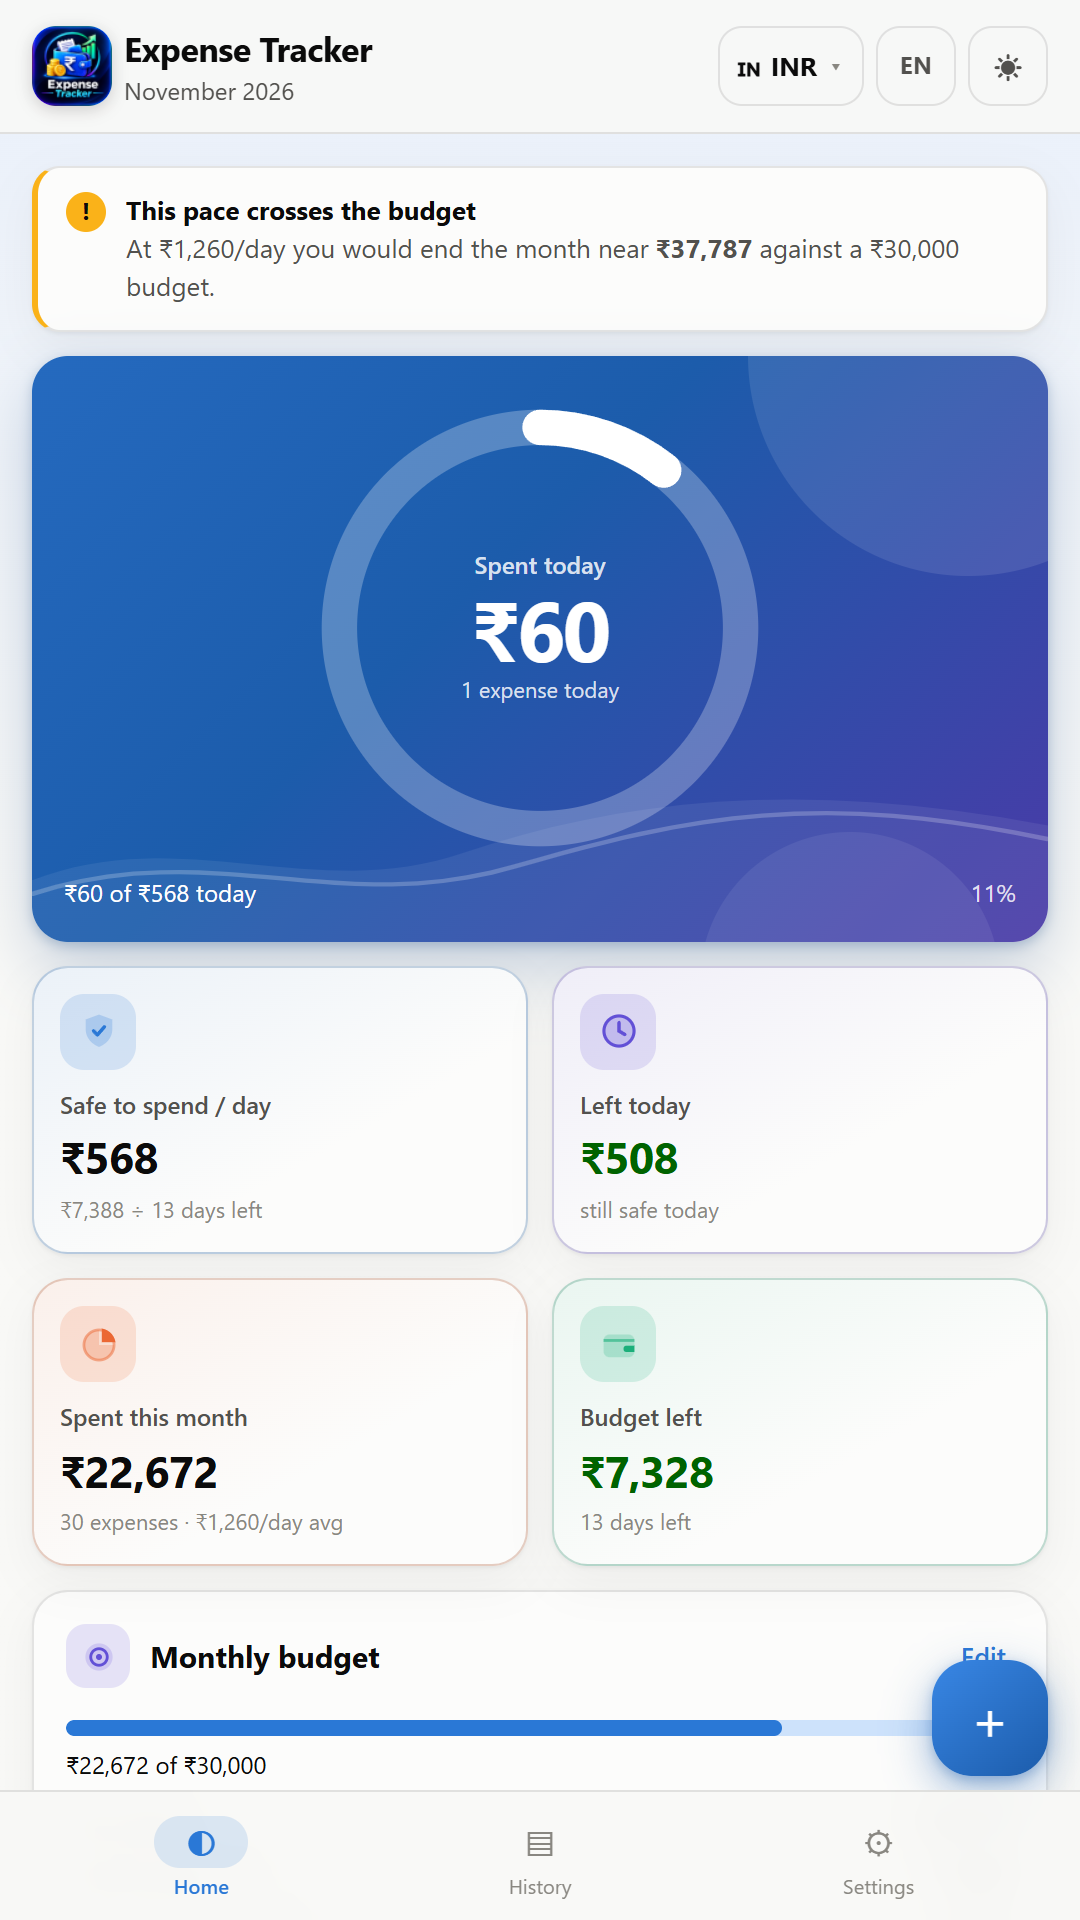
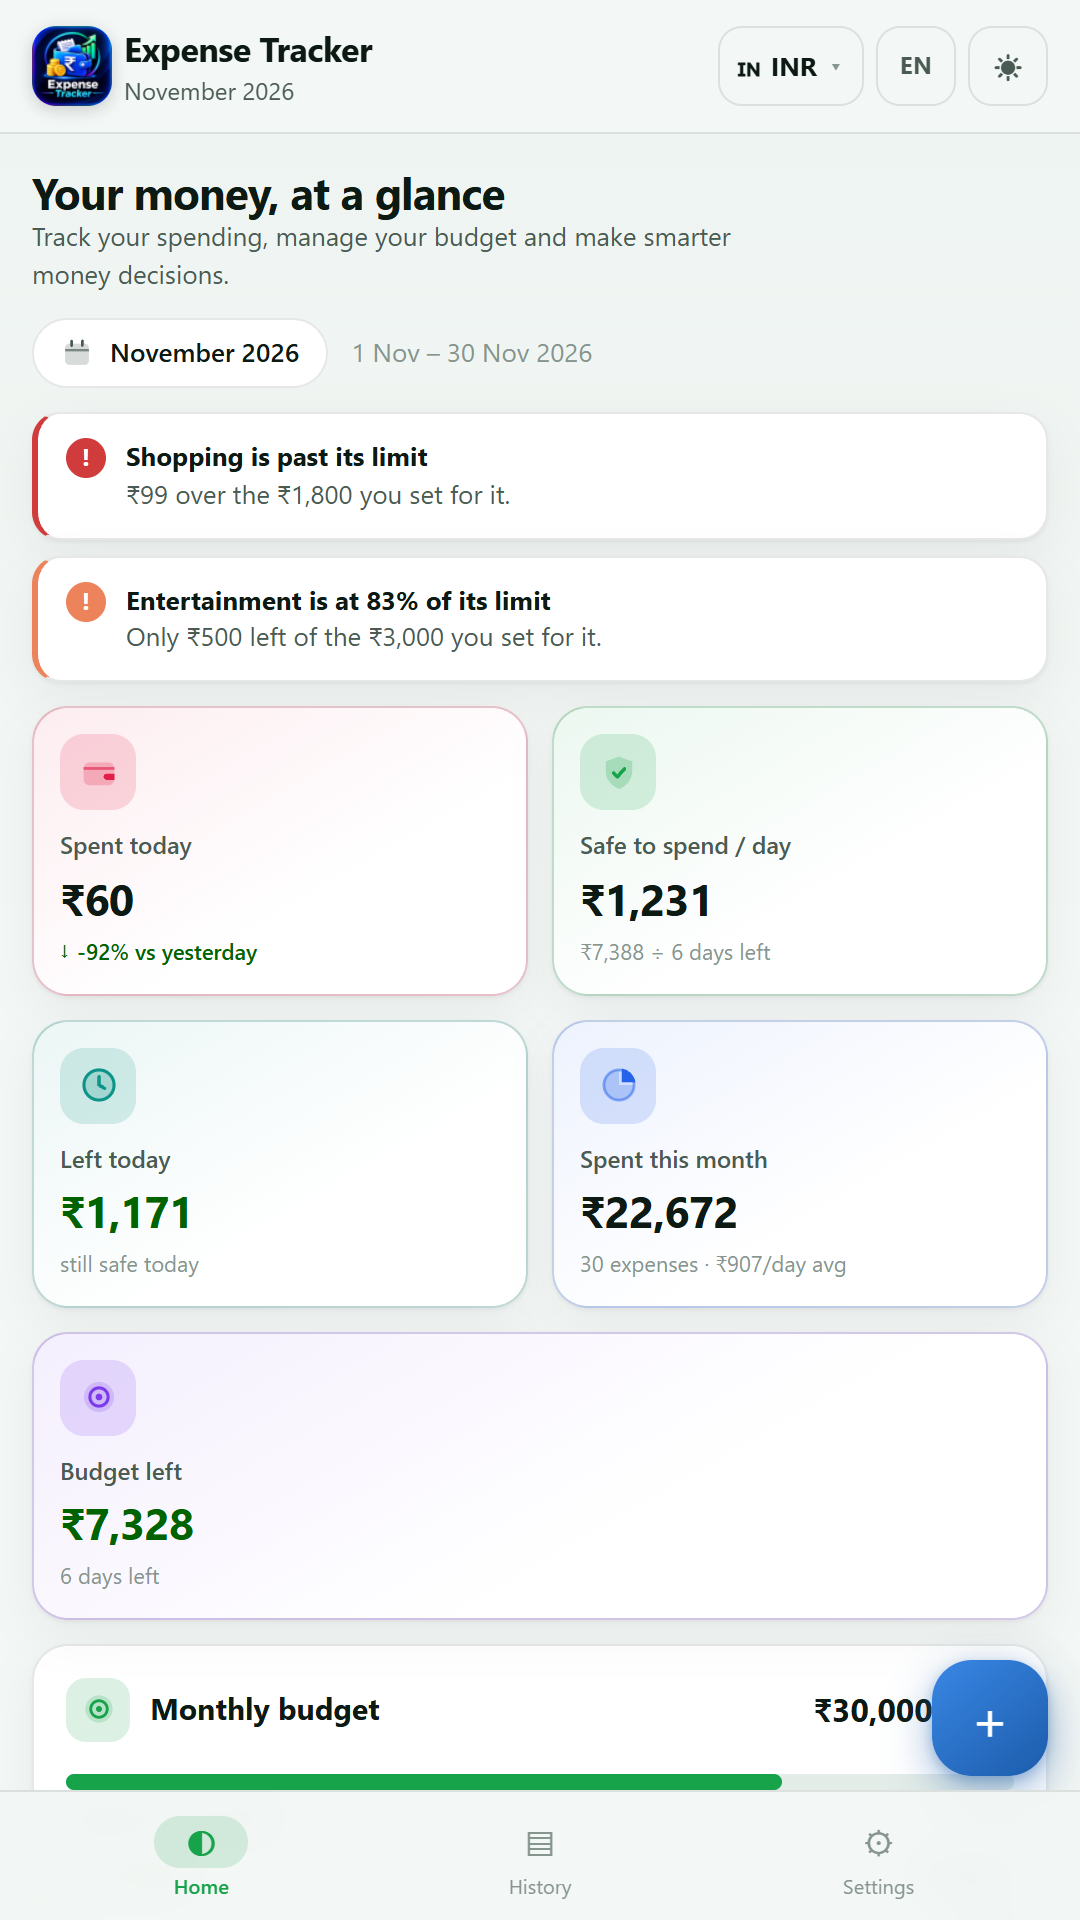
Put category budgets in the store screenshots
The listing still showed a dashboard with no category limits on it,
which is now the thing the app does that the free alternatives don't.
So the demo data carries five limits — one past its line, one near it,
three comfortable — and a new second screenshot shows the card with all
three states, next to the monthly budget it sits under.

That pushes the rest down one number. The manifest, the deploy file
list and the two docs follow the new names.

diff --git a/tools/store-shots.js b/tools/store-shots.js
@@ -129,7 +129,9 @@ function seedFor(theme) {
     'monthlyBudget:30000,cycleStartDay:1,' +
     "limitMode:'adaptive',nearBudgetPct:80,alerts:true," +
     "theme:'" + theme + "',onboarded:true}," +
-    'categories:cats.map(function(c){return {id:c[0],name:c[1],icon:c[2]};}),' +
+    // a few carry their own limit: one past it, one close to it, the rest
+    // comfortable, so the category-budget card shows all three states
+    'categories:cats.map(function(c){var lim={shopping:1800,fun:3000,transport:3000,groceries:8000,food:5000};return {id:c[0],name:c[1],icon:c[2],budget:lim[c[0]]||0};}),' +
     'expenses:rows.map(function(r,i){return {id:"s"+i,note:r[0],categoryId:r[1],' +
     'amount:r[2],date:day(r[3]),createdAt:Date.now()-i*60000};})};' +
     "localStorage.setItem('expense-tracker.v1',JSON.stringify(state));" +
@@ -144,14 +146,18 @@ var REVEAL = "document.querySelector('#tileLimitCard').click();";
 var SHOTS = [
   { file: '01-dashboard.png', theme: 'light', act: REVEAL },
   {
-    file: '02-charts.png', theme: 'light',
+    file: '02-category-budgets.png', theme: 'light',
+    act: "document.querySelector('#catBudCard').scrollIntoView({block:'center'});"
+  },
+  {
+    file: '03-charts.png', theme: 'light',
     act: "document.querySelector('[data-range=\"30\"]').click();" +
       "document.querySelector('#chartDaily').closest('.card').scrollIntoView({block:'center'});"
   },
-  { file: '03-add-expense.png', theme: 'light', act: "document.querySelector('#fab').click();" },
-  { file: '04-history.png', theme: 'light', act: "document.querySelector('.tab[data-tab=\"history\"]').click();scrollTo(0,0);" },
-  { file: '05-currencies.png', theme: 'light', act: "document.querySelector('#currencyTopBtn').click();" },
-  { file: '06-dark-mode.png', theme: 'dark', act: REVEAL }
+  { file: '04-add-expense.png', theme: 'light', act: "document.querySelector('#fab').click();" },
+  { file: '05-history.png', theme: 'light', act: "document.querySelector('.tab[data-tab=\"history\"]').click();scrollTo(0,0);" },
+  { file: '06-currencies.png', theme: 'light', act: "document.querySelector('#currencyTopBtn').click();" },
+  { file: '07-dark-mode.png', theme: 'dark', act: REVEAL }
 ];
 
 function run() {

diff --git a/tools/build-deploy.js b/tools/build-deploy.js
@@ -29,10 +29,11 @@ const FILES = [
   '.well-known/assetlinks.json',
   // referenced by the manifest, so PWABuilder and the install prompt can read them
   'store/screenshots/01-dashboard.png',
-  'store/screenshots/02-charts.png',
-  'store/screenshots/03-add-expense.png',
-  'store/screenshots/04-history.png',
-  'store/screenshots/05-currencies.png'
+  'store/screenshots/02-category-budgets.png',
+  'store/screenshots/03-charts.png',
+  'store/screenshots/04-add-expense.png',
+  'store/screenshots/05-history.png',
+  'store/screenshots/06-currencies.png'
 ];
 
 function rmrf(dir) {

diff --git a/README.md b/README.md
@@ -131,7 +131,7 @@ privacy.html                        privacy policy page (email/naam bharna hai)
 .well-known/assetlinks.json         TWA verification ka template
 store/play-icon-512.png             Play listing ka icon
 store/feature-graphic-1024x500.png  listing ka banner
-store/screenshots/                  6 phone screenshots (1080x1920)
+store/screenshots/                  7 phone screenshots (1080x1920)
 store/feature-graphic.html          banner ka source (badal kar dobara render kar sakte ho)
 ```
 

diff --git a/PLAYSTORE.md b/PLAYSTORE.md
@@ -179,7 +179,7 @@ common amounts a single tap.
 |---|---|
 | App icon (512×512) | `store/play-icon-512.png` |
 | Feature graphic (1024×500) | `store/feature-graphic-1024x500.png` |
-| Phone screenshots (1080×1920) | `store/screenshots/01…06` — kam se kam 2, zyada se zyada 8 |
+| Phone screenshots (1080×1920) | `store/screenshots/01…07` — kam se kam 2, zyada se zyada 8 |
 | Logo (1024×1024, transparent) | `store/logo-1024.png` — social/website ke liye, Play ke liye zaroori nahi |
 
 ---
